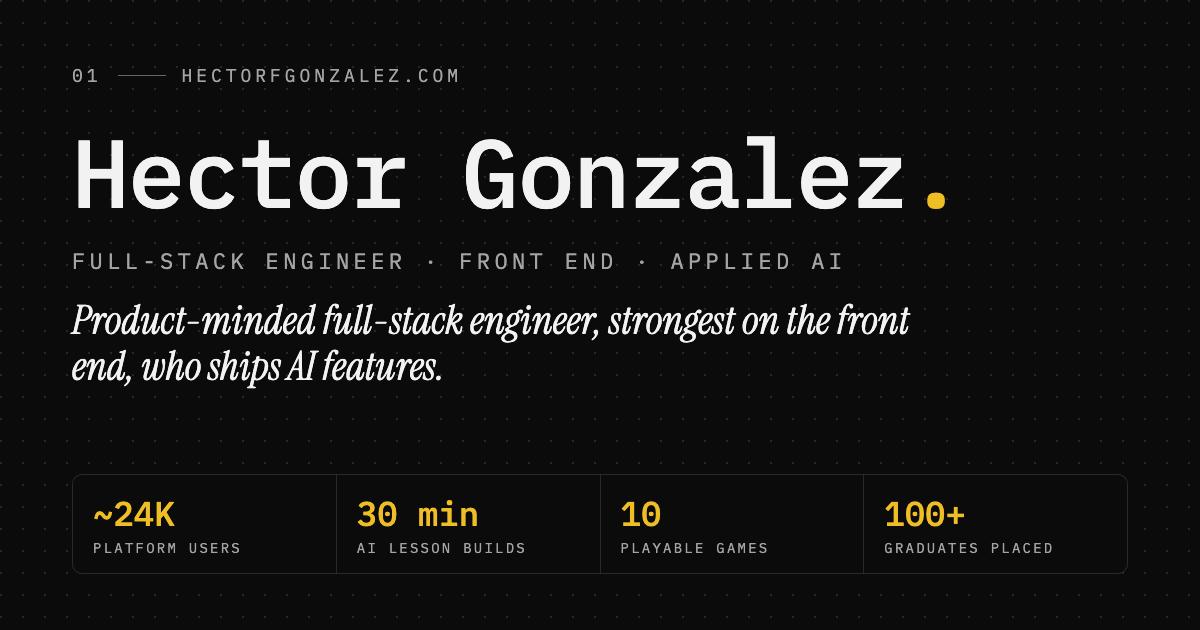
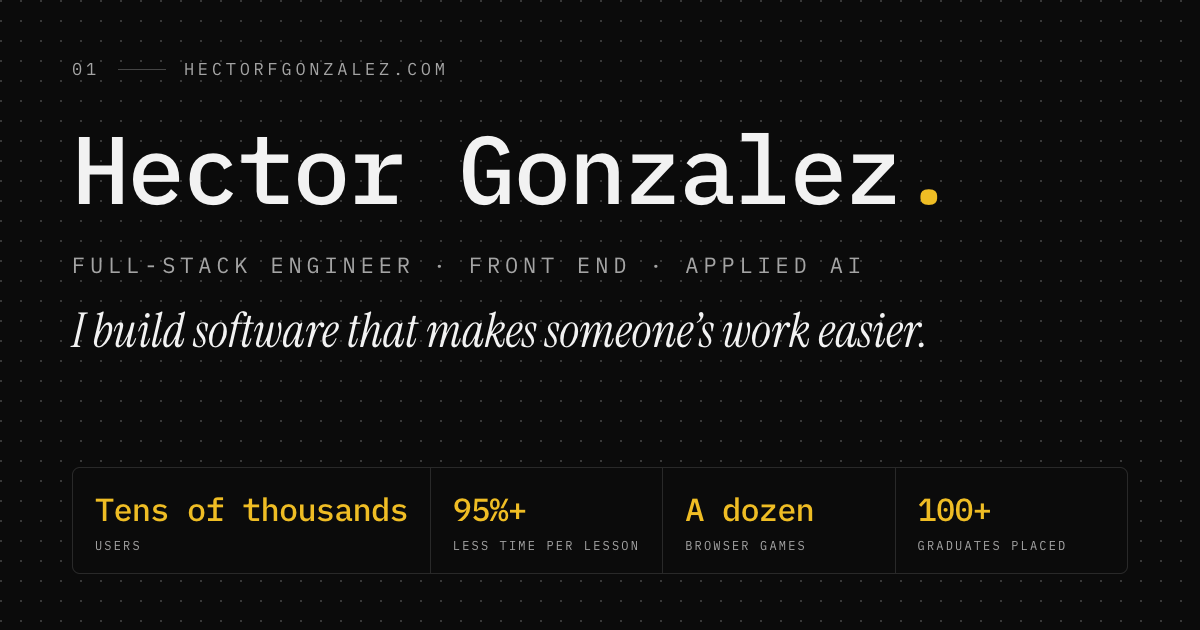
feat(portfolio): hero in one line and one sentence, rounded proof numbers, copy rules
- The hero's tagline and bio are the new line and sentence, and the home
  page's meta description (with the root layout's fallback) repeats them.
- The proof strip rounds its numbers: tens of thousands, 95%+, a dozen and
  100+. Each value is sized to its cell, so "thousands" fits on phones and
  tablets, at the old 1.1 line height. On a phone the tagline balances its
  two lines.
- /projects' description uses the same numbers.
- The share card shows the new line and proof strip. Its source is now
  docs/og-image.html, with the render command in docs/seo.md.
- Copy rules: docs/spec.md §5 (new Copy Rules section, positioning and
  summary lines) and the short version in AGENTS.md.

diff --git a/apps/hector-portfolio/docs/og-image.html b/apps/hector-portfolio/docs/og-image.html
@@ -1,0 +1,145 @@
+<!doctype html>
+<html lang="en">
+<head>
+<meta charset="utf-8">
+<title>Share card</title>
+<!--
+  The portfolio's share card, public/og-image.png (1200 × 630), in the portfolio theme's dark tokens.
+  It shows the hero line and the proof strip, so render it again when they change: the command is
+  in docs/seo.md → Share image.
+-->
+<link rel="preconnect" href="https://fonts.googleapis.com">
+<link rel="preconnect" href="https://fonts.gstatic.com" crossorigin>
+<link rel="stylesheet" href="https://fonts.googleapis.com/css2?family=IBM+Plex+Mono:wght@400;500&family=Instrument+Serif:ital@1&display=block">
+<style>
+:root {
+  /* The portfolio theme's dark tokens (packages/ui/src/styles/themes/portfolio.css) */
+  --background: oklch(15% 0 0);
+  --foreground: oklch(96% 0 0);
+  --muted-foreground: oklch(72% 0 0);
+  --accent: oklch(82% 0.16 88);
+  --border: oklch(28% 0 0);
+}
+
+html,
+body {
+  margin: 0;
+  padding: 0;
+}
+
+body {
+  box-sizing: border-box;
+  display: flex;
+  flex-direction: column;
+  width: 1200px;
+  height: 630px;
+  padding: 58px 72px 56px;
+  overflow: hidden;
+  background-color: var(--background);
+  /* The site's card dot grid */
+  background-image: radial-gradient(
+    circle at 1px 1px,
+    color-mix(in oklch, var(--foreground) 20%, transparent) 1px,
+    transparent 0
+  );
+  background-size: 20px 20px;
+  color: var(--foreground);
+  -webkit-font-smoothing: antialiased;
+}
+
+p {
+  margin: 0;
+}
+
+.label {
+  font-family: "IBM Plex Mono", ui-monospace, monospace;
+  letter-spacing: 0.22em;
+  text-transform: uppercase;
+  color: var(--muted-foreground);
+}
+
+.eyebrow {
+  display: flex;
+  align-items: center;
+  gap: 18px;
+  font-size: 17px;
+}
+
+.rule {
+  width: 48px;
+  height: 1px;
+  background: color-mix(in oklch, var(--foreground) 25%, transparent);
+}
+
+.name {
+  margin-top: 40px;
+  font-family: "IBM Plex Mono", ui-monospace, monospace;
+  font-size: 96px;
+  font-weight: 500;
+  line-height: 1;
+  letter-spacing: -0.025em;
+}
+
+.dot {
+  color: var(--accent);
+}
+
+.title {
+  margin-top: 34px;
+  font-size: 22px;
+}
+
+.tagline {
+  margin-top: 26px;
+  font-family: "Instrument Serif", Georgia, serif;
+  font-size: 48px;
+  font-style: italic;
+  line-height: 1.1;
+}
+
+/* The proof strip: hairlines from a 1px gap on the border colour */
+.proof {
+  display: grid;
+  grid-template-columns: max-content repeat(3, 1fr);
+  gap: 1px;
+  margin-top: auto;
+  overflow: hidden;
+  border: 1px solid var(--border);
+  border-radius: 8px;
+  background: var(--border);
+}
+
+.proof > div {
+  padding: 20px 22px;
+  background: var(--background);
+}
+
+.value {
+  font-family: "IBM Plex Mono", ui-monospace, monospace;
+  font-size: 32px;
+  font-weight: 500;
+  letter-spacing: -0.025em;
+  white-space: nowrap;
+  color: var(--accent);
+}
+
+.proof .label {
+  margin-top: 8px;
+  font-size: 12px;
+  letter-spacing: 0.18em;
+}
+</style>
+</head>
+<body>
+  <div class="eyebrow label"><span>01</span><span class="rule"></span><span>hectorfgonzalez.com</span></div>
+  <p class="name">Hector Gonzalez<span class="dot">.</span></p>
+  <p class="title label">Full-Stack Engineer · Front End · Applied AI</p>
+  <p class="tagline">I build software that makes someone&rsquo;s work easier.</p>
+  <div class="proof">
+    <div><p class="value">Tens of thousands</p><p class="label">Users</p></div>
+    <div><p class="value">95%+</p><p class="label">Less time per lesson</p></div>
+    <div><p class="value">A dozen</p><p class="label">Browser games</p></div>
+    <div><p class="value">100+</p><p class="label">Graduates placed</p></div>
+  </div>
+</body>
+</html>

diff --git a/apps/hector-portfolio/app/_components/portfolio/proof/proof-strip.tsx b/apps/hector-portfolio/app/_components/portfolio/proof/proof-strip.tsx
@@ -17,18 +17,18 @@ interface ProofItem {
 
 const PROOF_ITEMS: ProofItem[] = [
   {
-    value: "~24K",
+    value: "Tens of thousands",
     label: "Users",
     hint: "On The Notwork, the platform I co-architected and run",
   },
   {
-    value: "30 min",
-    label: "Lesson build time",
+    value: "95%+",
+    label: "Less time per lesson",
     hint: "Down from about a week, with a nine-step AI pipeline",
   },
   {
-    value: "10",
-    label: "Playable games",
+    value: "A dozen",
+    label: "Browser games",
     hint: "Built solo in Pixi.js and Three.js",
   },
   {
@@ -57,14 +57,15 @@ export function ProofStrip() {
           {PROOF_ITEMS.map((item, index) => (
             <m.div
               key={item.label}
-              className="relative flex flex-col gap-1.5 bg-background p-5 sm:p-6"
+              className="@container relative flex flex-col gap-1.5 bg-background p-5 sm:p-6"
               variants={staggerItem}
             >
               <dt className="flex items-center justify-between font-mono text-[10px] uppercase tracking-[0.22em] text-muted-foreground">
                 {item.label}
                 <span aria-hidden>{String(index + 1).padStart(2, "0")}</span>
               </dt>
-              <dd className="font-mono text-3xl font-medium tracking-tight text-foreground sm:text-4xl">
+              {/* Sized to the cell, so the longest word, "thousands", fits on a phone */}
+              <dd className="font-mono text-[min(2.25rem,19cqi)] font-medium leading-[1.1] tracking-tight text-foreground">
                 {item.value}
               </dd>
               <dd className="text-xs leading-relaxed text-muted-foreground">

diff --git a/apps/hector-portfolio/app/page.tsx b/apps/hector-portfolio/app/page.tsx
@@ -17,7 +17,7 @@ import { generateSEOMetadata } from "@/src/shared/utils/seo";
 export const metadata: Metadata = generateSEOMetadata({
   title: "Hector Gonzalez | Full-Stack Engineer, Front End and Applied AI",
   description:
-    "Product-minded full-stack engineer, strongest on the front end, who ships AI features. Co-architect and sole maintainer of The Notwork, a production edtech platform with ~24K users.",
+    "I build software that makes someone's work easier. Six years building for the web, from a bank's public site to a learning platform tens of thousands of people use.",
   keywords: [
     "Hector Gonzalez",
     "Full-Stack Engineer",

diff --git a/apps/hector-portfolio/app/layout.tsx b/apps/hector-portfolio/app/layout.tsx
@@ -46,7 +46,7 @@ const caveat = Caveat({
 export const metadata: Metadata = {
   title: "Hector Gonzalez | Full-Stack Engineer, Front End and Applied AI",
   description:
-    "Product-minded full-stack engineer, strongest on the front end, who ships AI features. Co-architect and sole maintainer of The Notwork, a production edtech platform with ~24K users.",
+    "I build software that makes someone's work easier. Six years building for the web, from a bank's public site to a learning platform tens of thousands of people use.",
 };
 
 // Every page is prerendered: anything that would render per request fails the build.

diff --git a/apps/hector-portfolio/app/(main)/projects/page.tsx b/apps/hector-portfolio/app/(main)/projects/page.tsx
@@ -6,7 +6,7 @@ import { ProjectsPageContent } from "./projects-page-content";
 export const metadata: Metadata = generateSEOMetadata({
   title: "Projects | Hector Gonzalez",
   description:
-    "Selected work: a production edtech platform with ~24K users, a nine-step AI curriculum pipeline, ten playable browser games, and a workforce program that placed 100+ graduates.",
+    "A learning platform tens of thousands of people use, an AI pipeline that cuts lesson time by 95%+, a dozen browser games, and 100+ graduates placed.",
   keywords: [
     "Projects",
     "Portfolio",

diff --git a/apps/hector-portfolio/app/_components/portfolio/hero/hero-section.tsx b/apps/hector-portfolio/app/_components/portfolio/hero/hero-section.tsx
@@ -49,7 +49,7 @@ export function HeroSection({ profile }: HeroSectionProps) {
 
             {profile.tagline && (
               <m.p
-                className="font-serif max-w-2xl text-xl leading-snug text-foreground sm:text-2xl"
+                className="font-serif max-w-2xl text-xl leading-snug text-balance text-foreground sm:text-2xl"
                 variants={heroItem}
               >
                 <span className="italic">{profile.tagline}</span>

diff --git a/apps/hector-portfolio/docs/spec.md b/apps/hector-portfolio/docs/spec.md
@@ -12,7 +12,7 @@ This is a personal portfolio website for myself.
 - [ ] Should be SEO friendly and easy to find on search engines
 - [ ] Should be clean and simple to navigate and use
 - [ ] Should effectively convey my brand and personality
-- [ ] Should lead with the positioning: a full-stack engineer, strongest on the front end, who ships AI features
+- [ ] Should lead with one plain line about what I do: “I build software that makes someone's work easier.”
 - [ ] Should link proof people can open: live sites, playable games, screenshots, and code
 
 
@@ -56,7 +56,7 @@ For Hector Gonzalez — full-stack engineer (front end and applied AI), co-found
 
 1. Brand Positioning Statement
 
-A product-minded full-stack engineer, strongest on the front end, who ships AI features. Owns a product end to end, from interface to data to the AI pipeline, and turns ambiguous asks into shipped systems. The shape is a T: front-end product engineering is the depth, applied AI the specialty, and the rest of the stack the breadth (updated 2026-10).
+“I build software that makes someone's work easier.” A full-stack engineer, strongest on the front end, who owns a product end to end, from the interface to the data to the AI pipeline. The shape is a T: front-end product engineering is the depth, applied AI the specialty, and the rest of the stack the breadth (updated 2026-10).
 
 ⸻
 
@@ -81,7 +81,7 @@ A. Sentence Style
 	•	Prefer short, declarative sentences.
 	•	Avoid filler (“excited,” “passionate,” “synergy,” etc.).
 	•	Default to active voice.
-	•	Use parallel structure (e.g., “Plan → Build → Ship”).
+	•	Use parallel structure.
 
 Example:
 “I built a Next.js + Bun microservice that ingests recipes, normalizes data, and syncs it to Notion.”
@@ -125,6 +125,18 @@ D. Learning systems (the domain)
 
 ⸻
 
+5. Copy Rules
+
+From Hector's review of the site's copy (2026-10). They cover every page, the metadata and the share card.
+	•	Short and plain. Write the way Hector talks. The hero is one line and one sentence.
+	•	Show, don't name. Specific facts carry the copy: what was built, for whom, and what changed. Never name a trait (“passionate,” “authentic,” “caring,” “product-minded”) or hint at one with adjectives.
+	•	No clichés or slogans: no “ships,” “passionate,” “excited” or “synergy,” and no setup-and-reversal lines like “Ambiguity in. Useful systems out.”
+	•	Sell the outcome, not the exact figure. Round the headline numbers: “tens of thousands of users,” not “~24K”; “95%+ less time per lesson,” not “30 min”; “a dozen browser games”; “100+ graduates placed.”
+	•	The hero's line and sentence are also the home page's meta description (app/page.tsx, with app/layout.tsx as the fallback), and the share card (docs/og-image.html) shows the line and the proof strip. Change them together.
+	•	Hector reviews new copy before it merges.
+
+⸻
+
 6. Visual Style Guidance
 
 This controls how your portfolio should feel visually.
@@ -152,4 +164,4 @@ Your work is inherently technical and system-oriented—your visuals should refl
 
 7. One-Sentence Brand Summary
 
-I build modern, scalable systems for learning and operations—combining engineering clarity, product strategy, and educational impact.
+I build software that makes someone's work easier.

diff --git a/apps/hector-portfolio/docs/seo.md b/apps/hector-portfolio/docs/seo.md
@@ -38,7 +38,13 @@ export const metadata = generateSEOMetadata({
 
 ### Share image
 
-Every page gets `public/og-image.png` (1200×630) as its `og:image` and `twitter:image` unless it passes its own `image` (`DEFAULT_SHARE_IMAGE` in `src/shared/utils/seo.ts`). It's set there rather than as an `app/opengraph-image` file because a page that sets its own `openGraph` replaces the inherited one, so a file-based image reached only the home page. The card is a static PNG, not an `ImageResponse` route: `next/og` needs inline styles, which the design lint bans. To change it, edit and re-render the card (any 1200×630 PNG works) and replace the file. The home-screen icon is `app/apple-icon.png` (180×180), which Next.js links on every page.
+Every page gets `public/og-image.png` (1200×630) as its `og:image` and `twitter:image` unless it passes its own `image` (`DEFAULT_SHARE_IMAGE` in `src/shared/utils/seo.ts`). It's set there rather than as an `app/opengraph-image` file because a page that sets its own `openGraph` replaces the inherited one, so a file-based image reached only the home page. The card is a static PNG, not an `ImageResponse` route: `next/og` needs inline styles, which the design lint bans. The home-screen icon is `app/apple-icon.png` (180×180), which Next.js links on every page.
+
+The card's source is [`og-image.html`](./og-image.html). It shows the hero line and the proof strip, so render it again whenever either changes. From `apps/hector-portfolio`, with Chrome installed (the page loads its fonts from Google Fonts):
+
+```bash
+"/Applications/Google Chrome.app/Contents/MacOS/Google Chrome" --headless=new --user-data-dir="$(mktemp -d)" --hide-scrollbars --force-device-scale-factor=1 --window-size=1200,630 --virtual-time-budget=5000 --screenshot="$PWD/public/og-image.png" "file://$PWD/docs/og-image.html"
+```
 
 ### Page-Level SEO
 

diff --git a/apps/hector-portfolio/AGENTS.md b/apps/hector-portfolio/AGENTS.md
@@ -58,12 +58,12 @@ tests/                 # Tests
 Static site — keep it simple. No auth, no database, no API routes, no TanStack Query, no DI containers, no use cases, no domain error classes.
 
 ## Brand Voice
-Personal portfolio for Hector Gonzalez: a full-stack engineer, strongest on the front end, who ships AI features. The full voice and style guide is `docs/spec.md` §5; this is the short version.
-- **Direct** — information-first, no fluff
-- **Analytical** — grounded in reasoning and structure
-- **Pragmatic** — minimal, efficient, purpose-driven
-- **Builder mindset** — focuses on systems and execution
-- Avoid filler words: "excited", "passionate", "synergy"
+Personal portfolio for Hector Gonzalez, a full-stack engineer, strongest on the front end, with applied AI as the specialty. The hero says it in one line: "I build software that makes someone's work easier." The full voice and style guide is `docs/spec.md` §5, and every copy change follows its Copy Rules; this is the short version.
+- **Short and plain** — write the way Hector talks; the hero is one line and one sentence
+- **Show, don't name** — specific facts carry the copy; never name a trait ("passionate", "authentic", "product-minded") or hint at one with adjectives
+- **No clichés or slogans** — no "ships", "passionate", "excited" or "synergy", and no setup-and-reversal lines like "Ambiguity in. Useful systems out."
+- **Round the headline numbers** — "tens of thousands of users" and "95%+ less time per lesson", not "~24K" or "30 min"
+- **Hector reviews new copy** before it merges. The hero's line also feeds the home page's meta description and the share card (`docs/seo.md`)
 
 ## Visual Style
 - Minimal, clean grids; neutral colors (white, black, gray, sparse accents)

diff --git a/apps/hector-portfolio/docs/design.md b/apps/hector-portfolio/docs/design.md
@@ -14,9 +14,10 @@ Bold and opinionated through structure and typography, restrained with color and
 
 - Direct, pragmatic, dry.
 - Plain language first; technical detail when it earns its place.
-- "Builder/operator" is the through-line — someone who scopes the problem, designs the system, and ships the thing.
+- "Builder/operator" is the through-line — someone who scopes the problem, designs the system, and builds it.
 - Personality leans humble and curious, not corporate or hustle-y. No "passionate self-starter" energy.
 - Mono labels carry the dossier feel: small, uppercase, tracking-wide. Sentences can be casual.
+- What the copy says, and the words it avoids, are in `spec.md` §5, Copy Rules.
 
 ## Paper & Grid
 
